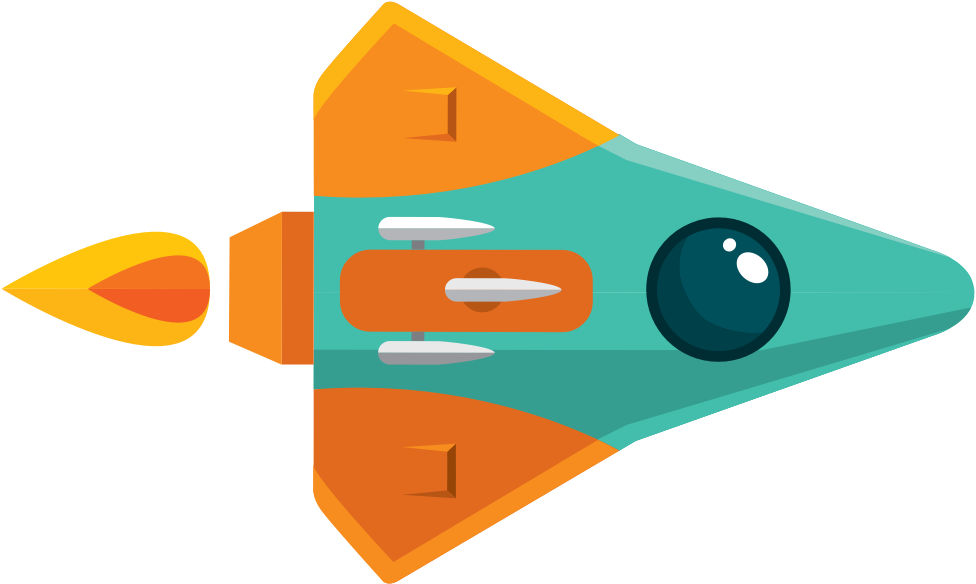
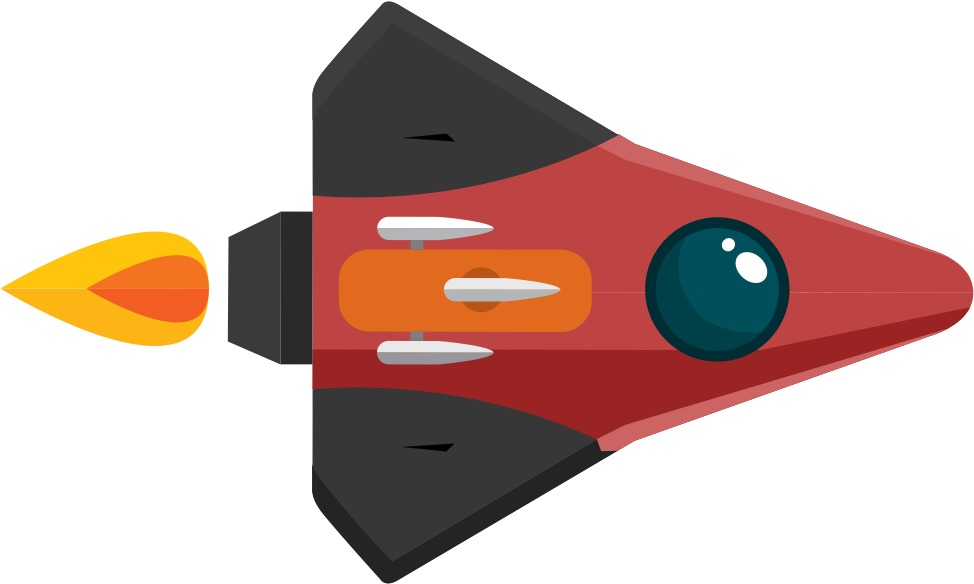
Team ship colors

diff --git a/game/Ship.class.php b/game/Ship.class.php
@@ -80,7 +80,7 @@ abstract class Ship extends Collidable
 		$size = $this->getSize();
 		$loc = $this->getLocation();
 		echo "<img";
-		echo " src=\"/resources/images/ship_1_" . $this->_angle . ".png\"";
+		echo " src=\"/resources/images/ship_" . $this->_player . "_" . $this->_angle . ".png\"";
 		echo " width=\"" . 100 * $size["x"] / 150 . "%\"";
 		echo " height=\"" . 100 * $size["y"] / 100 . "%\"";
 		echo " title=\"" . $this->toTitleTag() . "\"";
